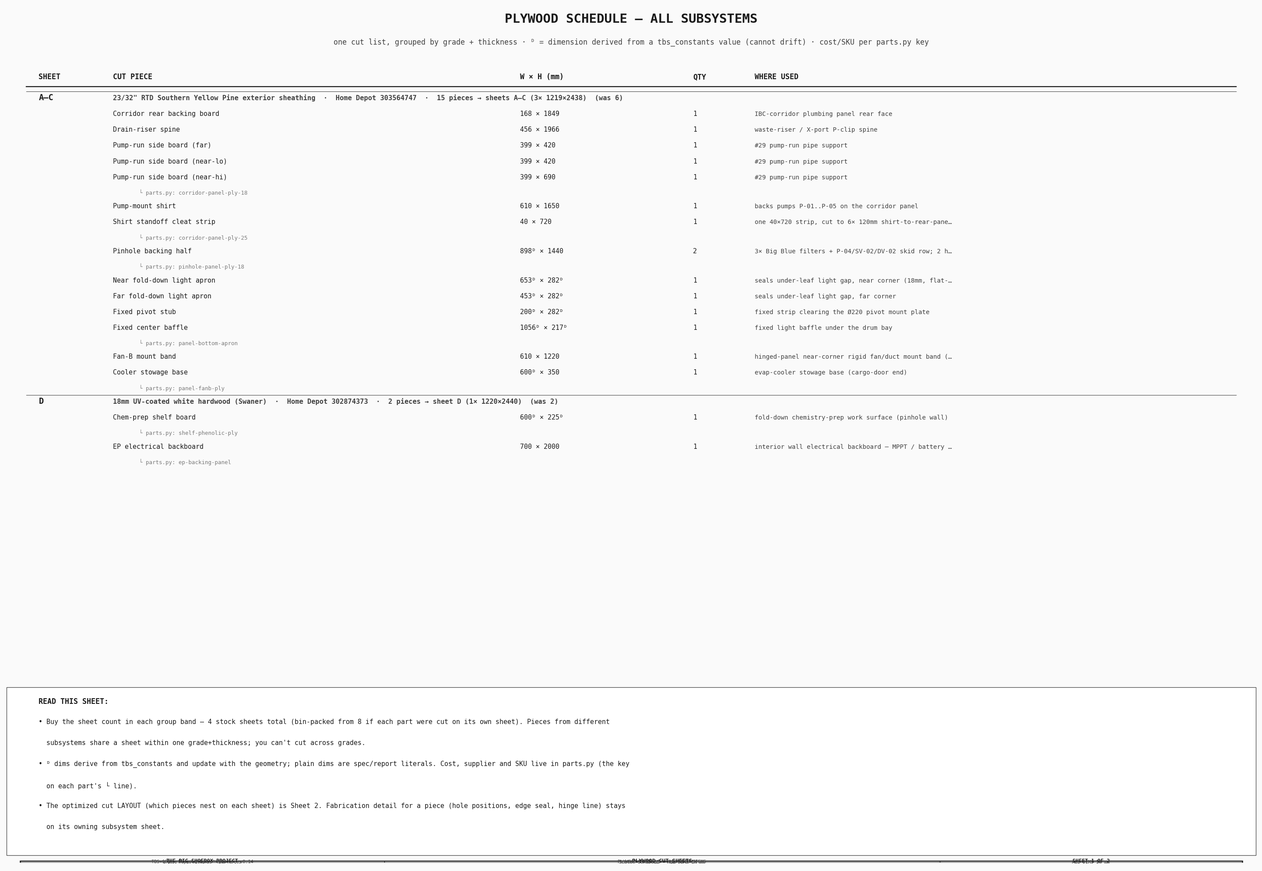
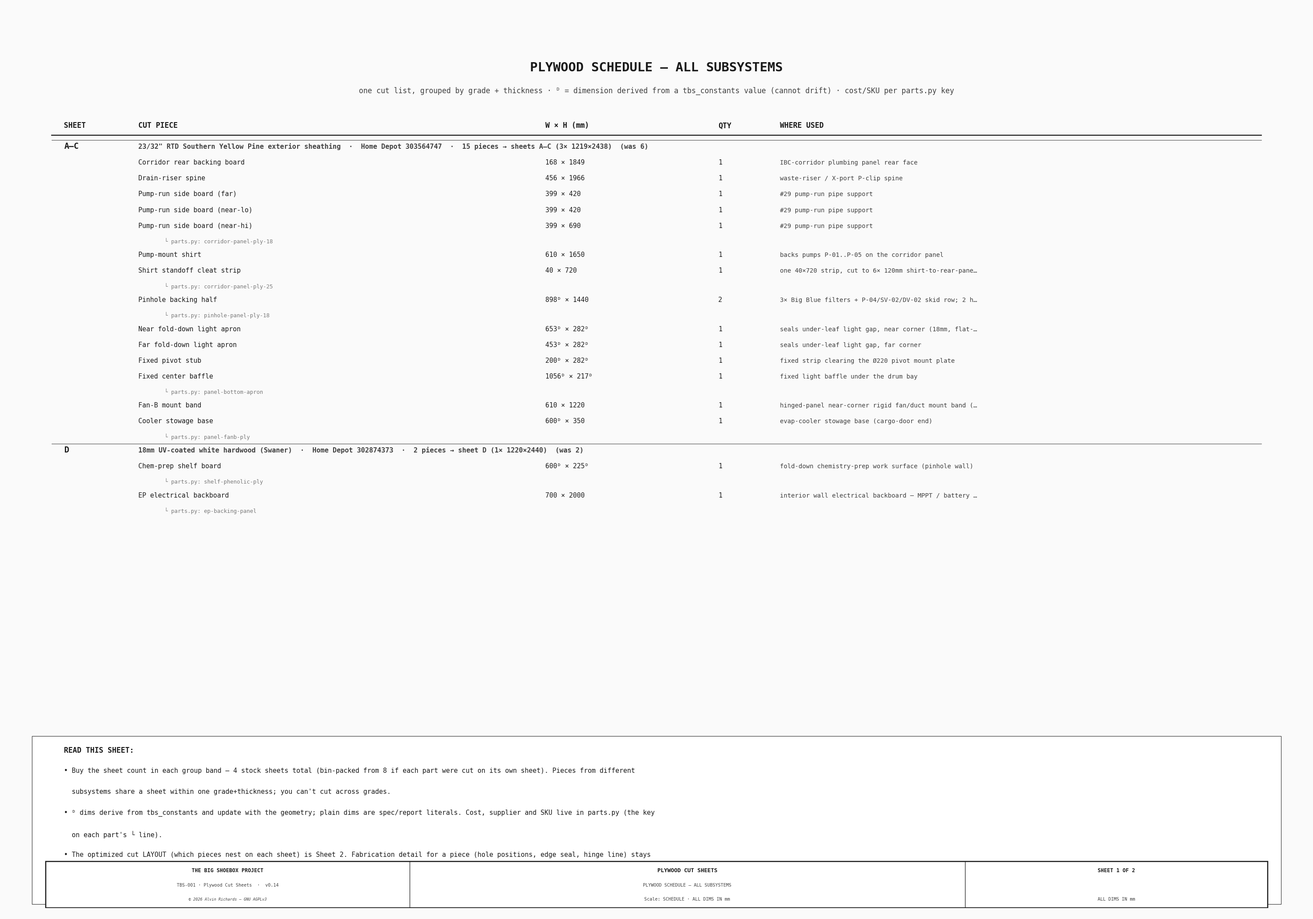
Plywood nesting: guillotine (90deg) cut layout + cut counts; fix title block
The sawmill only makes straight 90-degree edge-to-edge cuts, so the nest must
be guillotine-cuttable. Added a guillotine cut planner that computes the
minimum edge-to-edge cuts to free every piece and draws the cut lines (dashed
red) with a per-sheet + total cut count. The packer keeps the tight free-nest
only when all its sheets are guillotine-feasible (they are: 4 sheets), else
falls back to a multi-strategy guillotine packer; it minimizes sheets first,
then cuts (4 sheets, 45 cuts).

- cut_plan(): memoized recursion, min guillotine cuts + segments; flags a
  non-guillotine sheet (INF) so the fallback can trigger.
- pack_group(): MAXRECTS primary (verified guillotine-feasible) + guillotine
  fallback over sort/split/fit strategies.
- draw_sheet2: draw cut segments, show 'N cuts' per sheet + total.
- Title block fixed on both sheets — it was being drawn in the bottom ~4.5%
  of a thin strip axes (an unreadable sliver); pass height to fill the strip,
  size sheet 2 to the content aspect, save without the tight-bbox crop.
- report + RELEASE updated (guillotine, cut counts).

diff --git a/src/generators/generate_plywood_cutsheets.py b/src/generators/generate_plywood_cutsheets.py
@@ -44,6 +44,7 @@ C_DIM = "#404040"
 C_WOOD = "#D8C39A"       # plywood face
 C_STOCK = "#F0E9D8"      # stock-sheet ground
 C_STUB = "#C7B48A"       # fixed (non-fold) piece, distinguished from a fold-down apron
+C_CUT = "#B0202A"        # guillotine saw-cut line (dashed red)
 
 # ── derived cut dimensions (geometry-driven → from tbs_constants; cannot drift) ─────────────
 PINHOLE_W = PWP_PANEL_X1 - PWP_PANEL_X0                  # 1795 — pinhole-wall panel width (X span)
@@ -157,22 +158,19 @@ def _prune(rects):
     return out
 
 
-def pack_group(pieces, bin_w, bin_h, tol=FIT_TOL, kerf=CUT_MARGIN):
-    """MAXRECTS (Best-Short-Side-Fit, 90° rotation) rectangle bin-packing → minimize the number of
-    stock sheets. Same-material pieces only (caller groups by grade+thickness). A piece may overhang a
-    free rect by up to `tol` (the 5mm plywood cut tolerance — so a full-width piece cuts to the sheet
-    edge); a `kerf` is reserved between adjacent pieces when the free space is carved up. Returns a list
-    of bins, each a list of (x, y, w, h, label, rotated) at the true piece size. Panel-count-minimizing;
-    the pieces are labeled with dims so the shop lays out the actual saw cuts."""
-    items = sorted(pieces, key=lambda p: -(p[1] * p[2]))         # largest area first
-    bins = []                                                    # each: {"free": [...], "placed": [...]}
+def _pack_maxrects(pieces, bin_w, bin_h, tol, kerf):
+    """MAXRECTS (Best-Short-Side-Fit, 90° rotation) — tightest free-placement nesting, minimizing the
+    number of stock sheets. The result is NOT guaranteed guillotine-cuttable; the caller verifies that
+    (via cut_plan) and falls back to _pack_once if a sheet can't be cut edge-to-edge."""
+    items = sorted(pieces, key=lambda p: -(p[1] * p[2]))
+    bins = []
 
     def _try(free, w, h):
         best = None
         for ri, (fx, fy, fw, fh) in enumerate(free):
             for (pw, ph, rot) in ([(w, h, False)] if abs(w - h) < 1e-6 else [(w, h, False), (h, w, True)]):
-                if pw <= fw + tol and ph <= fh + tol:           # within the cut tolerance
-                    score = max(0.0, min(fw - pw, fh - ph))     # best short-side fit (overhang ranks as a clean fit)
+                if pw <= fw + tol and ph <= fh + tol:
+                    score = max(0.0, min(fw - pw, fh - ph))
                     if best is None or score < best[0]:
                         best = (score, ri, fx, fy, pw, ph, rot)
         return best
@@ -183,24 +181,153 @@ def pack_group(pieces, bin_w, bin_h, tol=FIT_TOL, kerf=CUT_MARGIN):
             cand = _try(b["free"], w0, h0)
             if cand and (pick is None or cand[0] < pick[1][0]):
                 pick = (bi, cand)
-        if pick is None:                                         # open a new sheet (full stock, cut to edge)
+        if pick is None:
             bins.append({"free": [(0, 0, bin_w, bin_h)], "placed": []})
             bi = len(bins) - 1
             cand = _try(bins[bi]["free"], w0, h0)
-            if cand is None:                                     # bigger than a whole sheet
+            if cand is None:
                 bins[bi]["placed"].append((0, 0, min(w0, bin_w), min(h0, bin_h), label + " ⚠OVERSIZE", False))
                 bins[bi]["free"] = []
                 continue
             pick = (bi, cand)
         bi, (_score, _ri, x, y, pw, ph, rot) = pick
         b = bins[bi]
-        b["placed"].append((x, y, pw, ph, label, rot))           # true piece size (cut to edge within tol)
-        used = (x, y, pw + kerf, ph + kerf)                       # reserve a saw kerf for neighbors
+        b["placed"].append((x, y, pw, ph, label, rot))
+        used = (x, y, pw + kerf, ph + kerf)
         nf = []
         for f in b["free"]:
             nf.extend(_split_free(f, used))
         b["free"] = _prune(nf)
     return [b["placed"] for b in bins]
+
+
+def _pack_once(pieces, bin_w, bin_h, order, split, fit, tol, kerf):
+    """One GUILLOTINE packing pass (90° cuts only, so every sheet is panel-saw cuttable). `order` keys
+    the piece sort, `split` picks the guillotine axis rule, `fit` the free-rect score. A piece may
+    overhang a free rect by up to `tol` (5mm cut tolerance → full-width pieces cut to the edge); each
+    placed piece reserves `kerf` before its free rect is split by ONE cut into a right strip + top strip."""
+    key = {"area": lambda p: -(p[1] * p[2]), "maxside": lambda p: -max(p[1], p[2]),
+           "height": lambda p: -p[2], "width": lambda p: -p[1]}[order]
+    items = sorted(pieces, key=key)
+    bins = []
+
+    def _try(free, w, h):
+        best = None
+        for ri, (fx, fy, fw, fh) in enumerate(free):
+            for (pw, ph, rot) in ([(w, h, False)] if abs(w - h) < 1e-6 else [(w, h, False), (h, w, True)]):
+                if pw <= fw + tol and ph <= fh + tol:
+                    sss = max(0.0, min(fw - pw, fh - ph))                   # short-side leftover
+                    score = sss if fit == "sss" else max(0.0, fw * fh - pw * ph)  # or best-area
+                    if best is None or score < best[0]:
+                        best = (score, ri, fw, fh, pw, ph, rot)
+        return best
+
+    def _guillotine(fx, fy, fw, fh, pw, ph):
+        horiz = (fw - pw) <= (fh - ph) if split == "shorter" else (fw - pw) > (fh - ph)
+        if horiz:                        # TOP strip kept full-width, right strip piece-high
+            parts = ((fx + pw + kerf, fy, fw - pw - kerf, ph), (fx, fy + ph + kerf, fw, fh - ph - kerf))
+        else:                            # RIGHT strip kept full-height, top strip piece-wide
+            parts = ((fx + pw + kerf, fy, fw - pw - kerf, fh), (fx, fy + ph + kerf, pw, fh - ph - kerf))
+        return [r for r in parts if r[2] > 1 and r[3] > 1]
+
+    for (label, w0, h0) in items:
+        pick = None
+        for bi, b in enumerate(bins):
+            cand = _try(b["free"], w0, h0)
+            if cand and (pick is None or cand[0] < pick[1][0]):
+                pick = (bi, cand)
+        if pick is None:
+            bins.append({"free": [(0, 0, bin_w, bin_h)], "placed": []})
+            bi = len(bins) - 1
+            cand = _try(bins[bi]["free"], w0, h0)
+            if cand is None:
+                bins[bi]["placed"].append((0, 0, min(w0, bin_w), min(h0, bin_h), label + " ⚠OVERSIZE", False))
+                bins[bi]["free"] = []
+                continue
+            pick = (bi, cand)
+        bi, (_score, ri, fw, fh, pw, ph, rot) = pick
+        b = bins[bi]
+        fx, fy, _fw, _fh = b["free"].pop(ri)
+        b["placed"].append((fx, fy, pw, ph, label, rot))
+        b["free"].extend(_guillotine(fx, fy, fw, fh, pw, ph))
+    return [b["placed"] for b in bins]
+
+
+def _total_cuts(bin_w, bin_h, bins):
+    return sum(cut_plan(bin_w, bin_h, pl)[0] for pl in bins)
+
+
+def pack_group(pieces, bin_w, bin_h, tol=FIT_TOL, kerf=CUT_MARGIN):
+    """Pack a group onto the fewest stock sheets, keeping every sheet panel-saw cuttable (edge-to-edge
+    90° cuts). The tight MAXRECTS nest is used when every one of its sheets is guillotine-cuttable (it is
+    for the current pieces, and it packs one sheet fewer than a pure guillotine greedy); otherwise the
+    packer falls back to the guillotine strategy that gives the fewest sheets, then fewest cuts. Among
+    equally-good options the fewest total cuts wins. Returns bins of (x, y, w, h, label, rotated)."""
+    mr = _pack_maxrects(pieces, bin_w, bin_h, tol, kerf)
+    mr_cuts = _total_cuts(bin_w, bin_h, mr)
+    best = (len(mr), mr_cuts, mr) if mr_cuts < INF else None
+    for order in ("area", "maxside", "height", "width"):
+        for split in ("shorter", "longer"):
+            for fit in ("sss", "area"):
+                bins = _pack_once(pieces, bin_w, bin_h, order, split, fit, tol, kerf)
+                cand = (len(bins), _total_cuts(bin_w, bin_h, bins), bins)
+                if best is None or cand[:2] < best[:2]:
+                    best = cand
+    return best[2]
+
+
+_E = 0.5                                                          # mm epsilon for cut-plan edge tests
+INF = float("inf")                                                # a sheet that is not guillotine-cuttable
+
+
+def cut_plan(bin_w, bin_h, placed):
+    """Minimum guillotine (edge-to-edge 90°) cuts to free every piece on a sheet, + the cut segments.
+    Recurse: a region holding >1 piece (or 1 piece not filling it) is split by a full-span cut on a
+    piece edge that crosses no piece; take the fewest-cut choice. Memoized — a few pieces per sheet."""
+    R = [(x, y, x + w, y + h) for (x, y, w, h, _l, _r) in placed]
+    memo = {}
+
+    def rec(x0, y0, x1, y1, idxs):
+        if not idxs:
+            return 0, []
+        if len(idxs) == 1:
+            a = R[idxs[0]]
+            if abs(a[0] - x0) < _E and abs(a[1] - y0) < _E and abs(a[2] - x1) < _E and abs(a[3] - y1) < _E:
+                return 0, []
+        key = (round(x0), round(y0), round(x1), round(y1), idxs)
+        if key in memo:
+            return memo[key]
+        best = None
+        xs = {round(e, 2) for i in idxs for e in (R[i][0], R[i][2]) if x0 + _E < e < x1 - _E}
+        for xc in xs:
+            if any(R[i][0] < xc - _E and R[i][2] > xc + _E for i in idxs):
+                continue
+            left = tuple(i for i in idxs if R[i][2] <= xc + _E)
+            right = tuple(i for i in idxs if R[i][0] >= xc - _E)
+            if len(left) + len(right) != len(idxs):
+                continue
+            cl, sl = rec(x0, y0, xc, y1, left)
+            cr, sr = rec(xc, y0, x1, y1, right)
+            if best is None or 1 + cl + cr < best[0]:
+                best = (1 + cl + cr, [(xc, y0, xc, y1)] + sl + sr)
+        ys = {round(e, 2) for i in idxs for e in (R[i][1], R[i][3]) if y0 + _E < e < y1 - _E}
+        for yc in ys:
+            if any(R[i][1] < yc - _E and R[i][3] > yc + _E for i in idxs):
+                continue
+            bot = tuple(i for i in idxs if R[i][3] <= yc + _E)
+            top = tuple(i for i in idxs if R[i][1] >= yc - _E)
+            if len(bot) + len(top) != len(idxs):
+                continue
+            cb, sb = rec(x0, y0, x1, yc, bot)
+            ct, st = rec(x0, yc, x1, y1, top)
+            if best is None or 1 + cb + ct < best[0]:
+                best = (1 + cb + ct, [(x0, yc, x1, yc)] + sb + st)
+        if best is None:
+            best = (0, []) if len(idxs) <= 1 else (INF, [])     # >1 piece, no cut → not guillotine-cuttable
+        memo[key] = best
+        return best
+
+    return rec(0, 0, bin_w, bin_h, tuple(range(len(R))))
 
 
 # pack every group once (module-level, so Sheet 1's count and Sheet 2's layout agree)
@@ -228,10 +355,10 @@ def _is_fixed(label):
     return any(k in label for k in ("Fixed", "stub", "baffle"))
 
 
-def _save(fig, fname):
+def _save(fig, fname, tight=True):
     os.makedirs(DIAGRAMS_DIR, exist_ok=True)
     png = os.path.join(DIAGRAMS_DIR, fname)
-    fig.savefig(png, dpi=150, bbox_inches="tight", facecolor=C_BG)
+    fig.savefig(png, dpi=150, bbox_inches="tight" if tight else None, facecolor=C_BG)
     plt.close(fig)
     print(f"  {png} saved")
 
@@ -307,12 +434,13 @@ def draw_sheet1():
     ], 2, 14.5, spacing=2.6, fs=7.2, title_fs=8.0, width=96, wrap=150,
        color=C_OUT, title_color=C_OUT, border_color=C_DIM, font=FONT)
 
-    ax_tb = fig.add_axes([0.03, 0.008, 0.94, 0.045])
+    ax_tb = fig.add_axes([0.03, 0.012, 0.94, 0.055])
     ax_tb.set_xlim(0, 1); ax_tb.set_ylim(0, 1); ax_tb.axis("off")
     title_block(ax_tb, f"SHEET 1 OF {TOTAL_SHEETS}", drawing_title="PLYWOOD CUT SHEETS",
                 subtitle="PLYWOOD SCHEDULE — ALL SUBSYSTEMS",
-                scale_note="SCHEDULE · ALL DIMS IN mm", doc_id="TBS-001 · Plywood Cut Sheets")
-    _save(fig, "plywood-cutsheets-sheet1.png")
+                scale_note="SCHEDULE · ALL DIMS IN mm", doc_id="TBS-001 · Plywood Cut Sheets",
+                height=0.92)
+    _save(fig, "plywood-cutsheets-sheet1.png", tight=False)
 
 
 # ── Sheet-2 label helpers (measure real text extents so a label wraps to fit its box, else leads out) ──
@@ -358,11 +486,11 @@ def _wrap_fit(renderer, label, fs, avail_line_px, avail_stack_px, extra_lines=1)
 # SHEET 2 — OPTIMIZED NESTING (bin-packed stock sheets, pieces mixed across subsystems)
 # ═══════════════════════════════════════════════════════════════════════════════
 def draw_sheet2():
-    fig = plt.figure(figsize=(20, 14))
+    fig = plt.figure(figsize=(22, 9))              # wide, to match the row-of-sheets content aspect
     fig.patch.set_facecolor(C_BG)
-    ax = fig.add_axes([0.04, 0.06, 0.92, 0.88])
+    ax = fig.add_axes([0.035, 0.11, 0.93, 0.80])
     ax.set_facecolor(C_BG)
-    ax.set_aspect("equal")
+    ax.set_aspect("equal", adjustable="datalim")   # keep the axes box put (don't shrink onto the title block)
     ax.axis("off")
 
     # every physical sheet, in group order, with its sequential buyer letter (A, B, C…)
@@ -379,19 +507,25 @@ def draw_sheet2():
     for idx in range(len(sheets)):
         origins.append((idx % COLS * (CELLW + GAPX), -(idx // COLS) * (CELLH + GAPY)))
 
-    # 1) grounds + piece rectangles + sheet headers (labels come after limits are fixed)
+    # 1) grounds + piece rectangles + guillotine cut lines + sheet headers
+    total_cuts = 0
     for (letter, thick, stock, pl), (ox, oy) in zip(sheets, origins):
         w0, h0 = stock
         used = sum(w * h for (_x, _y, w, h, _l, _r) in pl)
         util = 100 * used / (w0 * h0)
+        ncuts, segs = cut_plan(w0, h0, pl)
+        total_cuts += ncuts
         ax.add_patch(Rectangle((ox, oy), w0, h0, fc=C_STOCK, ec=C_OUT, lw=1.6, zorder=2))
-        ax.text(ox + w0 / 2, oy + h0 + 120, f"SHEET {letter}", ha="center", fontsize=9.0,
-                fontweight="bold", color=C_OUT, **FONT)
-        ax.text(ox + w0 / 2, oy + h0 + 34, f"{thick}mm · {w0}×{h0} · {util:.0f}% used",
-                ha="center", fontsize=6.4, color=C_DIM, **FONT)
         for (x, yb, w, h, label, rot) in pl:
             fc = C_STUB if _is_fixed(label) else C_WOOD
             ax.add_patch(Rectangle((ox + x, oy + yb), w, h, fc=fc, ec=C_OUT, lw=1.0, zorder=3))
+        for (sx0, sy0, sx1, sy1) in segs:                       # guillotine saw cuts (edge-to-edge, 90°)
+            ax.plot([ox + sx0, ox + sx1], [oy + sy0, oy + sy1], color=C_CUT, lw=0.9,
+                    ls=(0, (5, 2)), zorder=6)
+        ax.text(ox + w0 / 2, oy + h0 + 120, f"SHEET {letter}", ha="center", fontsize=9.0,
+                fontweight="bold", color=C_OUT, **FONT)
+        ax.text(ox + w0 / 2, oy + h0 + 34, f"{thick}mm · {w0}×{h0} · {util:.0f}% used · {ncuts} cuts",
+                ha="center", fontsize=6.4, color=C_DIM, **FONT)
 
     # 2) fix the view so transData/renderer are valid for text measurement
     maxx = max(ox + s[2][0] for s, (ox, oy) in zip(sheets, origins))
@@ -399,7 +533,7 @@ def draw_sheet2():
     maxy = max(oy + s[2][1] for s, (ox, oy) in zip(sheets, origins))
     miny = min(oy for ox, oy in origins)
     ax.set_xlim(minx - 80, maxx + 780)                         # right pad holds the leader-label column
-    ax.set_ylim(miny - 300, maxy + 260)
+    ax.set_ylim(miny - 100, maxy + 330)                        # top pad holds the per-sheet header labels
     fig.canvas.draw()
     r = fig.canvas.get_renderer()
     dpp_x, dpp_y = _data_per_px(ax)
@@ -440,19 +574,20 @@ def draw_sheet2():
             leader(ax, tipx, tipy, lx, ly, txt, fs=5.0, color=C_OUT, ha="left",
                    va="center", arrow_style="-", lw=0.6, font=FONT)
 
-    ax.text(0.5, 1.006, "PLYWOOD NESTING — OPTIMIZED CUT LAYOUT", transform=ax.transAxes,
-            ha="center", fontsize=13, fontweight="bold", color=C_OUT, **FONT)
-    ax.text(0.5, 0.986, f"MAXRECTS bin-pack per grade+thickness (pieces mixed across subsystems) · "
-            f"{OPT_TOTAL} stock sheets (from {NAIVE_TOTAL} part-by-part) · ↻ = rotated · shaded = FIXED piece",
-            transform=ax.transAxes, ha="center", fontsize=8, color=C_DIM, **FONT)
+    fig.text(0.5, 0.975, "PLYWOOD NESTING — OPTIMIZED CUT LAYOUT",
+             ha="center", fontsize=14, fontweight="bold", color=C_OUT, **FONT)
+    fig.text(0.5, 0.952, f"guillotine nest (every cut is a 90° edge-to-edge panel-saw cut) · "
+             f"{OPT_TOTAL} stock sheets (from {NAIVE_TOTAL} part-by-part) · {total_cuts} cuts total · "
+             f"↻ = rotated · ‑ ‑ = saw cut · shaded = FIXED piece",
+             ha="center", fontsize=8.5, color=C_DIM, **FONT)
 
-    ax_tb = fig.add_axes([0.04, 0.008, 0.92, 0.045])
+    ax_tb = fig.add_axes([0.035, 0.02, 0.93, 0.08])
     ax_tb.set_xlim(0, 1); ax_tb.set_ylim(0, 1); ax_tb.axis("off")
     title_block(ax_tb, f"SHEET 2 OF {TOTAL_SHEETS}", drawing_title="PLYWOOD CUT SHEETS",
-                subtitle=f"OPTIMIZED NESTING — {OPT_TOTAL} STOCK SHEETS",
+                subtitle=f"GUILLOTINE NESTING — {OPT_TOTAL} SHEETS · {total_cuts} CUTS",
                 scale_note="PIECES TO SCALE ON 4×8 STOCK · ALL DIMS IN mm",
-                doc_id="TBS-001 · Plywood Cut Sheets")
-    _save(fig, "plywood-cutsheets-sheet2.png")
+                doc_id="TBS-001 · Plywood Cut Sheets", height=0.92)
+    _save(fig, "plywood-cutsheets-sheet2.png", tight=False)
 
 
 if __name__ == "__main__":

diff --git a/RELEASE.md b/RELEASE.md
@@ -24,7 +24,7 @@ file** — a release must not ship without a changelog entry:
 
 ## [Unreleased]
 
-- **Plywood cut sheets — one schedule + nesting layout for every subsystem.** New `plywood-cut-sheets.md` + `generate_plywood_cutsheets.py`: a single plywood registry (every `timber-ply` part — IBC-corridor plumbing panel, pump-mount shirt, pinhole-wall filter-skid backing, EP electrical backboard, Fan-B mount band, fold-down light-trap aprons, chem-prep shelf) drawn as a **schedule** (grade · thickness · stock · cut pieces · where-used · `parts.py` key) plus a **nesting layout** grouped by grade+thickness. Cut dimensions are single-sourced from `tbs_constants` where geometry-driven (pinhole panel width, apron widths/heights, chem-shelf) and spec/report literals otherwise; cost/supplier/SKU stay in `parts.py`. A **MAXRECTS bin-packer** (5mm cut tolerance) nests all pieces of one grade+thickness onto the fewest 4×8 sheets, **mixing pieces across subsystems** — packing the whole job into **4 stock sheets** (down from 8 part-by-part). Standardizing on 18mm made the consolidation possible: the fold-down aprons re-graded 12mm→18mm into the SYP offcut; the finish-agnostic EP electrical backboard now shares the chem-shelf UV-white sheet; and the Fan-B mount band + cooler base re-graded from a dedicated ¾" pressure-treated sheet into the same SYP offcut (the 1220mm band rotates 90° and cuts to the 1219mm stock within the 5mm tolerance) — retiring the PT sheet (PT was over-spec for a dry, vented mount). The job now settles into **two grades** (SYP ×3, UV-white ×1) and drops **$148** ($68 EP + $10 apron + $70 Fan-B PT sheet). The four physical sheets are lettered **A–D** in sequence (the schedule's SHEET column maps each cut piece to the same letter); the shirt standoff cleats nest as one 40×720 strip cut to 6× 120mm (simpler fab); and nesting labels wrap inside their piece, falling back to a single leader when a piece is too small (e.g. the cleat strip). Gives the buyer a sheet count and the fabricator one optimized cut/nesting reference instead of an ad-hoc rectangle on each subsystem drawing. The hingepanel's duplicate Fan-B cut sheet (Sheet 11) was reworked to the band's *fabrication* detail only (fan cutout + frame-tab holes), pointing its stock/nesting to the plywood doc; the doc lives under a new **Construction** nav group.
+- **Plywood cut sheets — one schedule + nesting layout for every subsystem.** New `plywood-cut-sheets.md` + `generate_plywood_cutsheets.py`: a single plywood registry (every `timber-ply` part — IBC-corridor plumbing panel, pump-mount shirt, pinhole-wall filter-skid backing, EP electrical backboard, Fan-B mount band, fold-down light-trap aprons, chem-prep shelf) drawn as a **schedule** (grade · thickness · stock · cut pieces · where-used · `parts.py` key) plus a **nesting layout** grouped by grade+thickness. Cut dimensions are single-sourced from `tbs_constants` where geometry-driven (pinhole panel width, apron widths/heights, chem-shelf) and spec/report literals otherwise; cost/supplier/SKU stay in `parts.py`. A **MAXRECTS bin-packer** (5mm cut tolerance) nests all pieces of one grade+thickness onto the fewest 4×8 sheets, **mixing pieces across subsystems** — packing the whole job into **4 stock sheets** (down from 8 part-by-part). Standardizing on 18mm made the consolidation possible: the fold-down aprons re-graded 12mm→18mm into the SYP offcut; the finish-agnostic EP electrical backboard now shares the chem-shelf UV-white sheet; and the Fan-B mount band + cooler base re-graded from a dedicated ¾" pressure-treated sheet into the same SYP offcut (the 1220mm band rotates 90° and cuts to the 1219mm stock within the 5mm tolerance) — retiring the PT sheet (PT was over-spec for a dry, vented mount). The job now settles into **two grades** (SYP ×3, UV-white ×1) and drops **$148** ($68 EP + $10 apron + $70 Fan-B PT sheet). The four physical sheets are lettered **A–D** in sequence (the schedule's SHEET column maps each cut piece to the same letter); the shirt standoff cleats nest as one 40×720 strip cut to 6× 120mm (simpler fab); and nesting labels wrap inside their piece, falling back to a single leader when a piece is too small (e.g. the cleat strip). The nest is now **guillotine-cuttable** — every cut is a straight 90° edge-to-edge pass (the only cut a panel saw makes) — and the layout draws the **cut lines** with a per-sheet and total **cut count** (4 sheets, 45 cuts), minimizing sheets first then cuts; the tight free-nest is kept only when all its sheets are guillotine-feasible, else the packer falls back to a guillotine strategy. Fixed the Sheet-2 title block (it was rendering as an unreadable sliver). Gives the buyer a sheet count and the fabricator one optimized cut/nesting reference instead of an ad-hoc rectangle on each subsystem drawing. The hingepanel's duplicate Fan-B cut sheet (Sheet 11) was reworked to the band's *fabrication* detail only (fan cutout + frame-tab holes), pointing its stock/nesting to the plywood doc; the doc lives under a new **Construction** nav group.
 - **`tidy_labels.py` — three new static label checks** (from a review of the recurring hand "Tidy labels" edits): a **P9 legibility floor** (flag any `fs`/`fontsize`/`title_fs` literal below 4.0 on a label helper); a **notes missing-comma** guard (adjacent string literals in a `draw_notes([...])` list that would concatenate with no separating space — the silent P8 r47 bug, space-aware so intentional line-split items don't false-flag); and a **widened archaeology** flag (adds `relocated` / `(was …)` / `(moved …)` / `formerly`). All flag-only. A render-based text-on-fill/bbox check was evaluated and **rejected** — the house convention rarely bboxes on-fill labels (~6 of 310 in hingepanel), so it flagged ~50/generator (noise, not signal).
 
 ## [0.14] — 2026-09-30

diff --git a/plywood-cut-sheets.md b/plywood-cut-sheets.md
@@ -28,20 +28,22 @@ Every plywood cut piece, grouped by stock. The ᴰ marker flags a dimension deri
 
 ## 3. Nesting layout
 
-A MAXRECTS bin-packer nests all pieces of one grade+thickness onto the fewest 4×8 sheets, **mixing
-pieces across subsystems** (e.g. the corridor panel, pump-mount shirt, pinhole-wall backing, the
-fold-down aprons, and the Fan-B mount band all share the Southern-Yellow-Pine sheets A–C). The packer
-works to a **5mm cut tolerance** — a piece may overhang a sheet edge by up to 5mm and still nest, so a
-full-width piece cuts to the edge (the 1220mm Fan-B band rotates 90° onto a pinhole-backing sheet, 1mm
-over the 1219mm stock, well inside tolerance). This packs the whole job into **4 stock sheets, lettered
-A–D** — down from 8 if each part were cut on its own sheet. Standardizing the timber plywood on 18mm
-drove the consolidation: the fold-down aprons re-graded from a dedicated 12mm sheet into the SYP offcut
-(sheets A–C); the EP electrical backboard — a finish-agnostic backing surface — now shares the chem-shelf
-UV-white sheet (sheet D); and the Fan-B band + cooler base re-graded from a dedicated ¾" pressure-treated
-sheet into the same SYP offcut, retiring the PT sheet. So the whole job settles into **two grades** (SYP,
-UV-white). Pieces are drawn to scale; ↻ marks a piece rotated 90° to fit, and shaded pieces are fixed
-(non-fold). The layout is a nesting guide — the shop lays out the actual saw cuts from the labeled
-dimensions.
+A bin-packer nests all pieces of one grade+thickness onto the fewest 4×8 sheets, **mixing pieces across
+subsystems** (e.g. the corridor panel, pump-mount shirt, pinhole-wall backing, the fold-down aprons, and
+the Fan-B mount band all share the Southern-Yellow-Pine sheets A–C). Every layout is **guillotine-cuttable
+— each cut is a straight 90° edge-to-edge pass, the only cut a panel saw / sawmill makes** — and the
+drawing shows the cut lines (dashed red) with the cut count per sheet. The packer works to a **5mm cut
+tolerance**: a piece may overhang a sheet edge by up to 5mm and still nest, so a full-width piece cuts to
+the edge (the 1220mm Fan-B band rotates 90° onto a pinhole-backing sheet, 1mm over the 1219mm stock, well
+inside tolerance). It minimizes the sheet count first, then the number of cuts (the current nest is
+**4 sheets, 45 cuts**). This packs the whole job into **4 stock sheets, lettered A–D** — down from 8 if
+each part were cut on its own sheet. Standardizing the timber plywood on 18mm drove the consolidation: the
+fold-down aprons re-graded from a dedicated 12mm sheet into the SYP offcut (sheets A–C); the EP electrical
+backboard — a finish-agnostic backing surface — now shares the chem-shelf UV-white sheet (sheet D); and
+the Fan-B band + cooler base re-graded from a dedicated ¾" pressure-treated sheet into the same SYP offcut,
+retiring the PT sheet. So the whole job settles into **two grades** (SYP, UV-white). Pieces are drawn to
+scale; ↻ marks a piece rotated 90° to fit, dashed red lines are saw cuts, and shaded pieces are fixed
+(non-fold). The layout is a nesting + cut guide — the shop rips each sheet along the shown guillotine cuts.
 
 ![Plywood nesting](assets/plywood-cutsheets-sheet2.png)
 
